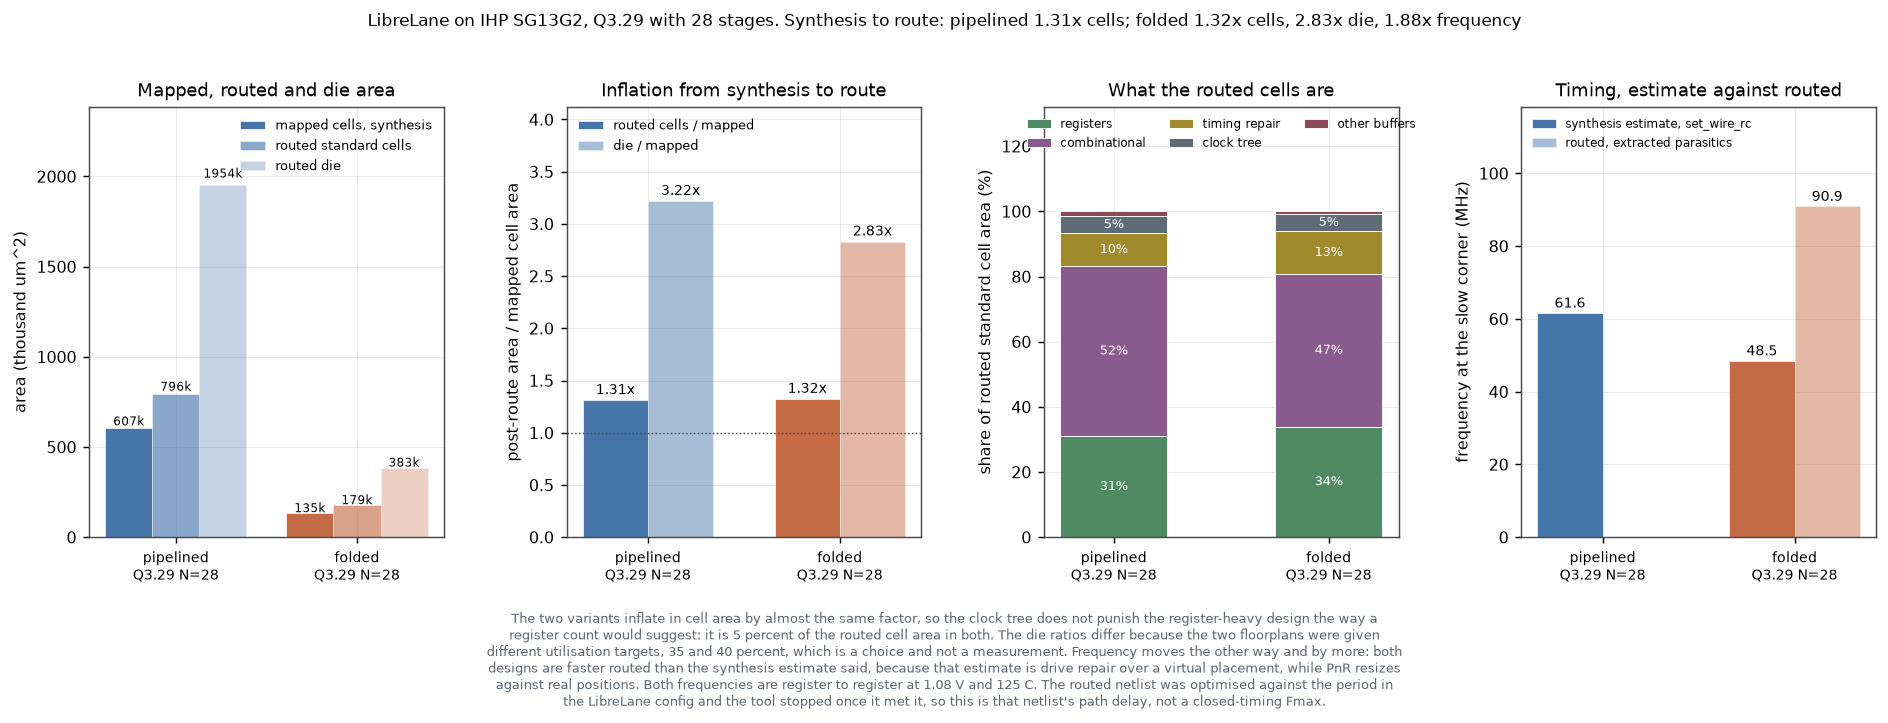
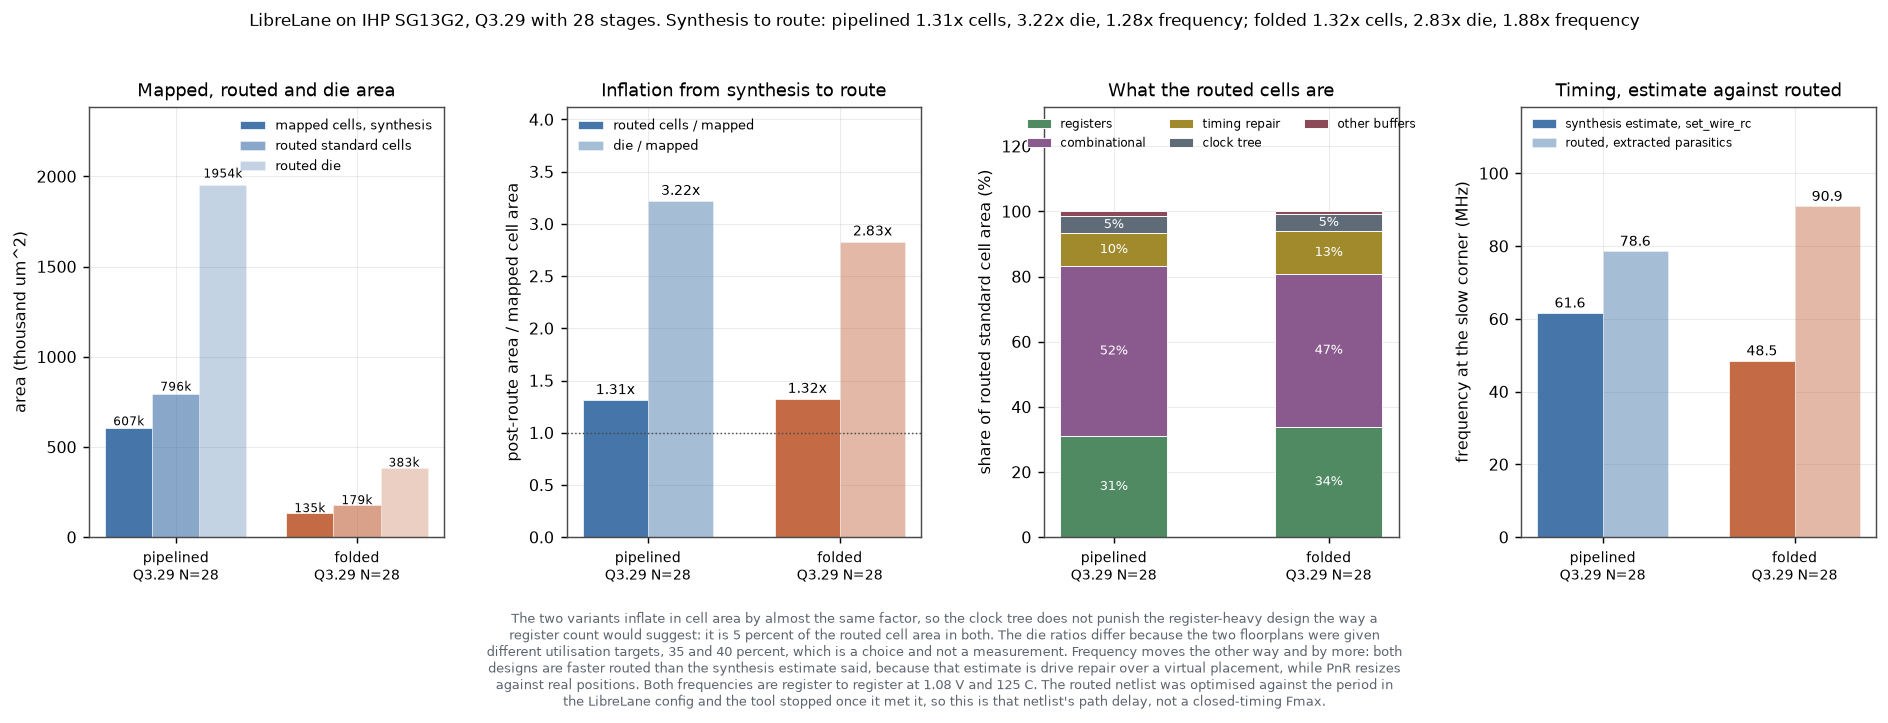
feat(pnr): the pipelined variant's signoff finished, with a DRC result worth keeping
Magic DRC returned after 2 hours 7 minutes and the remaining stages followed, so the
pipelined column is now measured rather than blank.

Both variants pass LVS: netgen reports circuits match uniquely against the extracted
layout, with no unmatched net, device or pin on either. That withdraws the last of
the "no LVS result here" language.

DRC splits them. The folded variant is clean on both signoff decks. The pipelined
variant is not, and the two decks agree about why: KLayout finds exactly one
violation, a Metal2 minimum-area failure, and Magic finds the same spot plus two tie
extensions its deck applies and KLayout's does not. The router converged to zero
because neither rule is in the deck it checks against itself. One real minimum-area
sliver on a die five times the area, found independently by two tools, is worth
reporting rather than rounding to "DRC clean".

Two harvest fixes fall out of this. The _source field is carried through, so a null
DRC count can be told apart from a stage that ran and found nothing: the folded run
writes final/metrics.json and the pipelined one never does, ending on two deferred
DRC errors. And a harvest no longer deletes postroute_fmax and wire_rc_control,
which scripts/pnr_fmax.py writes into the same entries and which cost a separate STA
run each.

Changed region(s): [[0.125, 0.0, 0.8438, 0.0609], [0.8438, 0.3347, 0.9062, 0.7607]]

diff --git a/scripts/run_pnr.py b/scripts/run_pnr.py
@@ -504,6 +504,11 @@ def main(argv=None):
             return 1
         picked = {k: metrics.get(k) for k in METRICS}
         picked["run_dir"] = str(run.relative_to(ROOT))
+        # Carried explicitly, since it is not one of METRICS. A reader has to be able
+        # to tell a metric the flow computed from one it never got to, and a null in
+        # magic__drc_error__count means opposite things in those two cases.
+        if metrics.get("_source"):
+            picked["_source"] = metrics["_source"]
         picked["config"] = cfg
         wpath = worst_reg_path(run)
         if wpath:
@@ -536,8 +541,16 @@ def main(argv=None):
             print(f"    {k:<32} {picked.get(k)}", flush=True)
 
     path = OUT / "summary.json"
-    if path.exists() and args.only:
-        merged = json.loads(path.read_text())
+    previous = json.loads(path.read_text()) if path.exists() else {}
+    # scripts/pnr_fmax.py writes into the same entries and this script rebuilds them
+    # from scratch, so anything it owns has to be carried across or a harvest silently
+    # deletes a measurement that took a separate STA run to produce.
+    for name, entry in summary.items():
+        for key in ("postroute_fmax", "wire_rc_control"):
+            if key not in entry and key in previous.get(name, {}):
+                entry[key] = previous[name][key]
+    if previous and args.only:
+        merged = dict(previous)
         merged.update(summary)
         summary = merged
     path.write_text(json.dumps(summary, indent=1))

diff --git a/README.md b/README.md
@@ -602,26 +602,33 @@ leftover slack, and for what that number does and does not claim.
 |---|---|---|
 | Router DRC, iterated to convergence | 0 | 0 |
 | Magic DRC, sg13g2 runset | **7** | 0 |
-| KLayout DRC, sg13g2 runset, 477 rules | not finished | 0 |
+| KLayout DRC, sg13g2 runset, 477 rules | **1** | 0 |
 | Magic against KLayout GDS XOR | 0 | 0 |
-| netgen LVS, extracted against netlist | not finished | **circuits match uniquely** |
+| netgen LVS, extracted against netlist | circuits match uniquely | circuits match uniquely |
+| LVS unmatched nets, devices, pins | 0, 0, 0 | 0, 0, 0 |
 | Antenna violations after diode insertion | 13 | 6 |
 | Routed wirelength | 1,685,814 um | 418,654 um |
+| Switching power at typ | 0.117 W | 0.018 W |
 
-**The folded variant closes clean and the pipelined one does not.** Magic finds 7
-violations on the pipelined layout of two kinds, both in the raw count Magic warns
-should be divided by three or four: a Metal2 minimum-area failure (`M2.d`) at one spot
-near (704.5, 467.4) um, and a tie extension beyond a diffusion contact (`LU.c`) at two
-more. Neither is in the deck OpenROAD's own router checks, which is why the router
-converged to zero and Magic did not. They are not designed in, they are artefacts of
-this flow configuration on a die five times the area, and clearing them would mean
-another routing run rather than an RTL change.
+**The folded variant closes DRC clean and the pipelined one does not.** Both variants
+pass LVS: netgen reports circuits match uniquely against the extracted layout, with no
+unmatched net, device or pin on either.
+
+The two DRC decks agree on what is wrong. KLayout reports exactly one violation on the
+pipelined layout, a Metal2 minimum-area failure (`M2.d`). Magic reports 7 in the raw
+count it warns should be divided by three or four, and they are the same `M2.d` spot
+near (704.5, 467.4) um plus two tie extensions beyond a diffusion contact (`LU.c`) that
+KLayout's deck does not flag. So: one real minimum-area sliver that two independent
+tools found, and a tap-cell rule that one of them applies. Neither is in the deck
+OpenROAD's own router checks, which is why the router converged to zero and the signoff
+decks did not. Neither is designed in: they are artefacts of this flow configuration on
+a die five times the area, and clearing them means another routing run, not an RTL
+change.
 
 Magic's DRC is single-threaded whatever the flow is told, and it scales badly: 7
-minutes 43 seconds for the folded variant's 30k instances against 2 hours 7 minutes
-for the pipelined variant's 166k. The stages after it had not returned when this was
-written, and "not finished" in that column means exactly that, not that the check
-passed.
+minutes 43 seconds for the folded variant's 30k instances against 2 hours 7 minutes for
+the pipelined variant's 166k. That is the single reason the pipelined variant took most
+of a day to get through signoff.
 
 ## Software
 
@@ -752,10 +759,11 @@ so a clone needs no generator run to build.
   have not been routed.
 - **Nothing has been fabricated.** These are tool outputs on a real PDK, not a
   tapeout. The design has no pad ring and has had no analog or reliability signoff.
-- **The pipelined variant's physical signoff is incomplete.** Its router DRC is clean
-  and its GDS exists, but Magic DRC, KLayout DRC and LVS had not finished when this
-  was written, and are reported as unfinished rather than passed. The folded variant
-  is clean on all of them, including netgen LVS.
+- **The pipelined variant does not close DRC.** Its router DRC converges to zero and
+  it passes LVS, but the Magic and KLayout signoff decks each find a Metal2
+  minimum-area violation, and Magic finds two tie extensions on top. The folded
+  variant is clean on every check. Both are reported above rather than rounded to
+  "DRC clean".
 - **The post-route frequencies are the routed netlists' path delays, not closed
   timing.** Each netlist was optimised against the period in its LibreLane config and
   the tool stopped once it met it, so a tighter target would have produced a different

diff --git a/docs/DESIGN.md b/docs/DESIGN.md
@@ -550,7 +550,7 @@ either cocotb generation.
 | Lint | `make lint` | Zero Verilator warnings at `-Wall` over 10 parameter configurations plus the Croc wrapper against stand-in Croc packages. |
 | Synthesis | `make synth` | Six configurations, generic cells. No inferred latch, no combinational loop, no unmapped submodule, asserted inside the Yosys script itself. |
 | Silicon | `make pdk` | Six configurations on real IHP SG13G2 130nm cells: area in um2 and Fmax at all three corners, with the repair target iterated to convergence so Fmax is a measurement rather than a function of the probe period. |
-| Place and route | `make pnr` | Full RTL-to-GDS through LibreLane, both variants: post-route area, post-route timing at all three corners with extracted parasitics, router and Magic and KLayout DRC, a Magic-against-KLayout GDS XOR, and netgen LVS. The folded variant is clean on all of them; the pipelined variant's Magic DRC had not finished, and is reported as unfinished rather than passed. |
+| Place and route | `make pnr` | Full RTL-to-GDS through LibreLane, both variants: post-route area, post-route timing at all three corners with extracted parasitics, router and Magic and KLayout DRC, a Magic-against-KLayout GDS XOR, and netgen LVS. Both pass LVS with no unmatched net, device or pin. The folded variant is DRC clean; the pipelined variant is not, and the counts are reported rather than rounded away. |
 | Formal | `make formal` | Attempted and **not established**. A SymbiYosys miter for variant equivalence and a set of OBI protocol properties are both written and both elaborate, and the solver runs out of time on every configuration tried. [formal/README.md](../formal/README.md) records each attempt with its bound and its wall clock. Nothing in this repository rests on a formal result. |
 | Driver | `make sw` | The identical driver source runs on the host against a register-accurate peripheral model, 626 checks, and links as a complete RV32IMC image. |
 

diff --git a/docs/pnr/README.md b/docs/pnr/README.md
@@ -97,7 +97,15 @@ Settings that are there because of failures worth recording:
   would pull them out from under the first.
 
 Magic's DRC stays single-threaded whatever the config says, and it scales badly: 7
-minutes for the folded variant's 30k instances, hours for the pipelined variant's
-166k. That is why the pipelined entry in `summary.json` can carry routing and timing
-results with its Magic DRC, KLayout DRC and LVS counts still `null`. A null there
-means the stage had not finished, not that it passed.
+minutes 43 seconds for the folded variant's 30k instances against 2 hours 7 minutes for
+the pipelined variant's 166k. That is why a `summary.json` entry can carry routing and
+timing results with its Magic DRC, KLayout DRC and LVS counts still `null`: the harvest
+works on an unfinished run, and everything the routing and timing numbers need is
+written by step 55 of 75. A null in those fields means the stage had not finished. It
+does not mean the stage passed, and the README quotes it that way.
+
+The two runs differ in where their metrics come from. The folded run completes cleanly
+and writes `final/metrics.json`. The pipelined run reaches all 75 stages but ends with
+two deferred DRC errors and never writes one, so its metrics are merged from the
+per-step files. The `_source` field in `summary.json` records which of the two a given
+entry came from.
